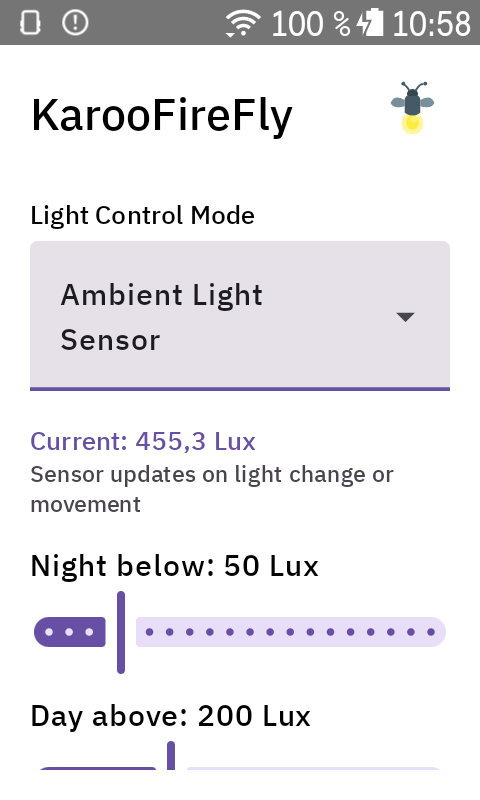
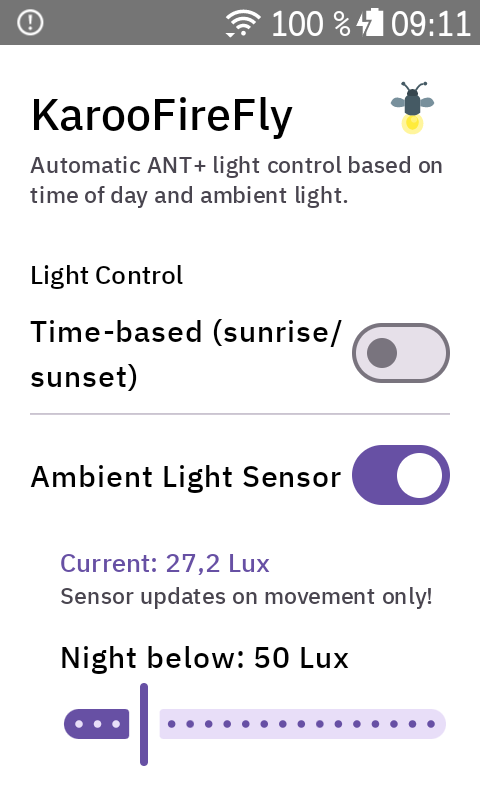
Update README and screenshots for new settings UI
Reflect the switch-based settings UI, zone change notifications,
auto-save behavior, and updated screenshots from the device.

diff --git a/README.md b/README.md
@@ -15,13 +15,15 @@ ANT+ Smart Bike Light Controller extension for Hammerhead Karoo 3.
 Controls ANT+ bike lights paired through Karoo's native sensor settings. Unlike Karoo's built-in light support which only toggles on/off at ride start/stop, KarooFireFly sets specific light modes based on time of day.
 
 **What works:**
-- 4 light control modes: Manual only, Time-based, Ambient Light Sensor, Combined
+- Independent feature switches: Time-based and Ambient Light Sensor (enable one or both)
 - Automatic light mode switching based on time of day (sunrise/sunset calculation)
 - Ambient light sensor based mode switching (Karoo 3's built-in lux sensor)
-- Combined mode: time-based baseline with ambient sensor override (e.g. tunnels)
+- Combined mode (both enabled): time-based baseline with ambient sensor override (e.g. tunnels)
+- Zone change notifications with sound during rides (configurable)
 - Auto on with ride start, auto off with ride stop
+- Auto-save — all settings take effect immediately
 - Configurable light profiles per time zone (day / dusk / night)
-- Configurable dawn/dusk time offsets
+- Configurable dawn/dusk time offsets with calculated zone start times
 - Configurable lux thresholds for ambient light zones with live lux readout
 - Uses Karoo-paired lights — no separate pairing needed
 - BonusActions mappable to AXS shift buttons or Karoo hardware buttons:
@@ -39,29 +41,33 @@ The extension communicates with Karoo's SensorService via its internal AIDL inte
 
 ## Settings
 
-### Light Control Mode
+### Light Control
 
-Choose how lights are controlled:
+Enable one or both features independently via switches:
 
-| Mode | Description |
-|------|-------------|
-| **Off (BonusButton only)** | No automatic control — lights only respond to BonusButton presses |
-| **Time-based** | Automatic mode switching based on sunrise/sunset |
-| **Ambient Light Sensor** | Automatic mode switching based on Karoo's lux sensor |
-| **Combined** | Time-based baseline, sensor can darken but not brighten (e.g. tunnels) |
+| Feature | Description |
+|---------|-------------|
+| **Time-based (sunrise/sunset)** | Automatic mode switching based on sunrise/sunset calculation |
+| **Ambient Light Sensor** | Automatic mode switching based on Karoo 3's built-in lux sensor |
+
+When both are enabled, time-based acts as the baseline and the ambient sensor can only darken the zone (e.g. tunnel detection). When neither is enabled, lights only respond to BonusButton presses.
 
 <p align="center">
-  <img src="docs/settings_manual.png" width="240" alt="Manual mode">
+  <img src="docs/settings_manual.png" width="240" alt="Manual mode (both off)">
   <img src="docs/settings_timebased.png" width="240" alt="Time-based mode">
 </p>
 <p align="center">
   <img src="docs/settings_ambient.png" width="240" alt="Ambient light mode">
-  <img src="docs/settings_combined.png" width="240" alt="Combined mode">
+  <img src="docs/settings_combined.png" width="240" alt="Combined mode (both on)">
 </p>
+
+### Zone Change Notifications
+
+When enabled, an in-ride alert with sound is shown whenever the light zone changes (e.g. DAY → DUSK). The notification shows the reason (sunrise/sunset or light sensor) and the resulting light modes for front and rear.
 
 ### Light Profiles
 
-Configure which light mode to use for each time zone (Day, Dusk/Dawn, Night) with separate front and rear settings.
+Configure which light mode to use for each time zone (Day, Dusk/Dawn, Night) with separate front and rear settings. Changes are saved immediately.
 
 <p align="center">
   <img src="docs/settings_profiles.png" width="240" alt="Light profiles">
@@ -69,7 +75,7 @@ Configure which light mode to use for each time zone (Day, Dusk/Dawn, Night) wit
 
 ### Manual Override
 
-When using an auto mode (Time-based, Ambient, Combined), BonusButton presses temporarily override the automatic control. The override clears automatically when the light zone changes (e.g. sunset transition or exiting a tunnel) or when the ride state changes (pause/stop).
+When using an auto mode, BonusButton presses temporarily override the automatic control. The override clears automatically when the light zone changes (e.g. sunset transition or exiting a tunnel) or when the ride state changes (pause/stop).
 
 ## Architecture
 
